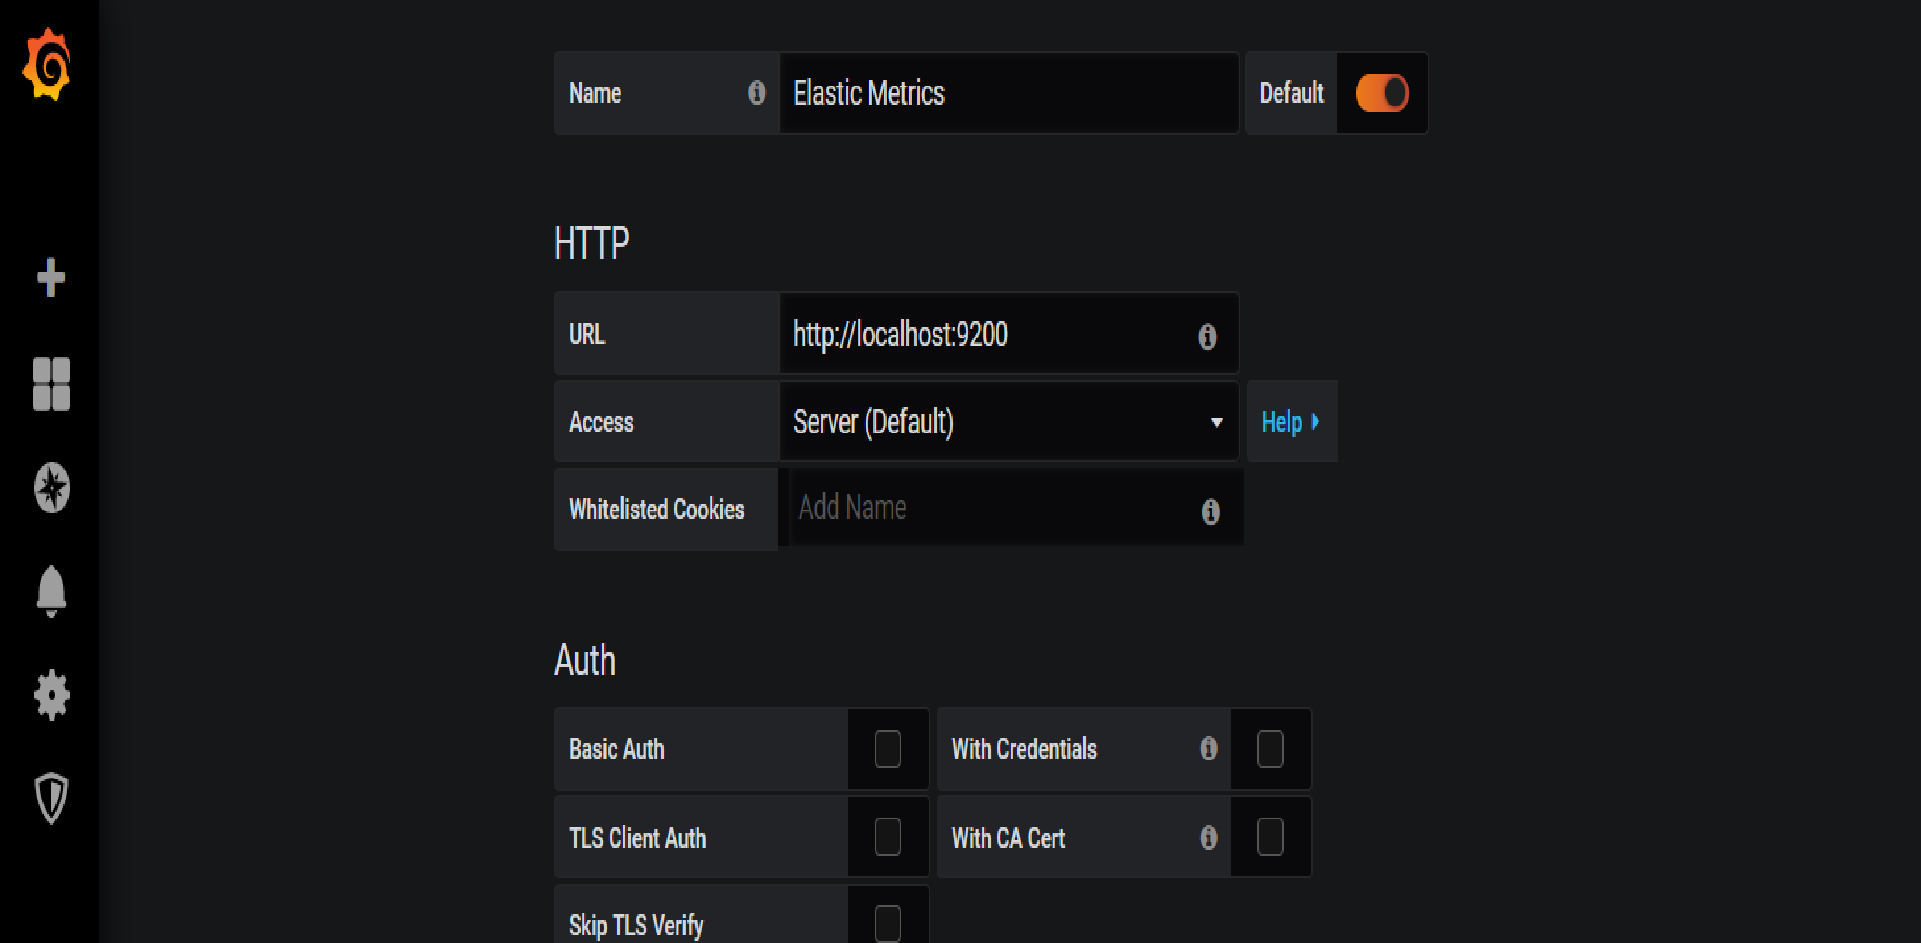
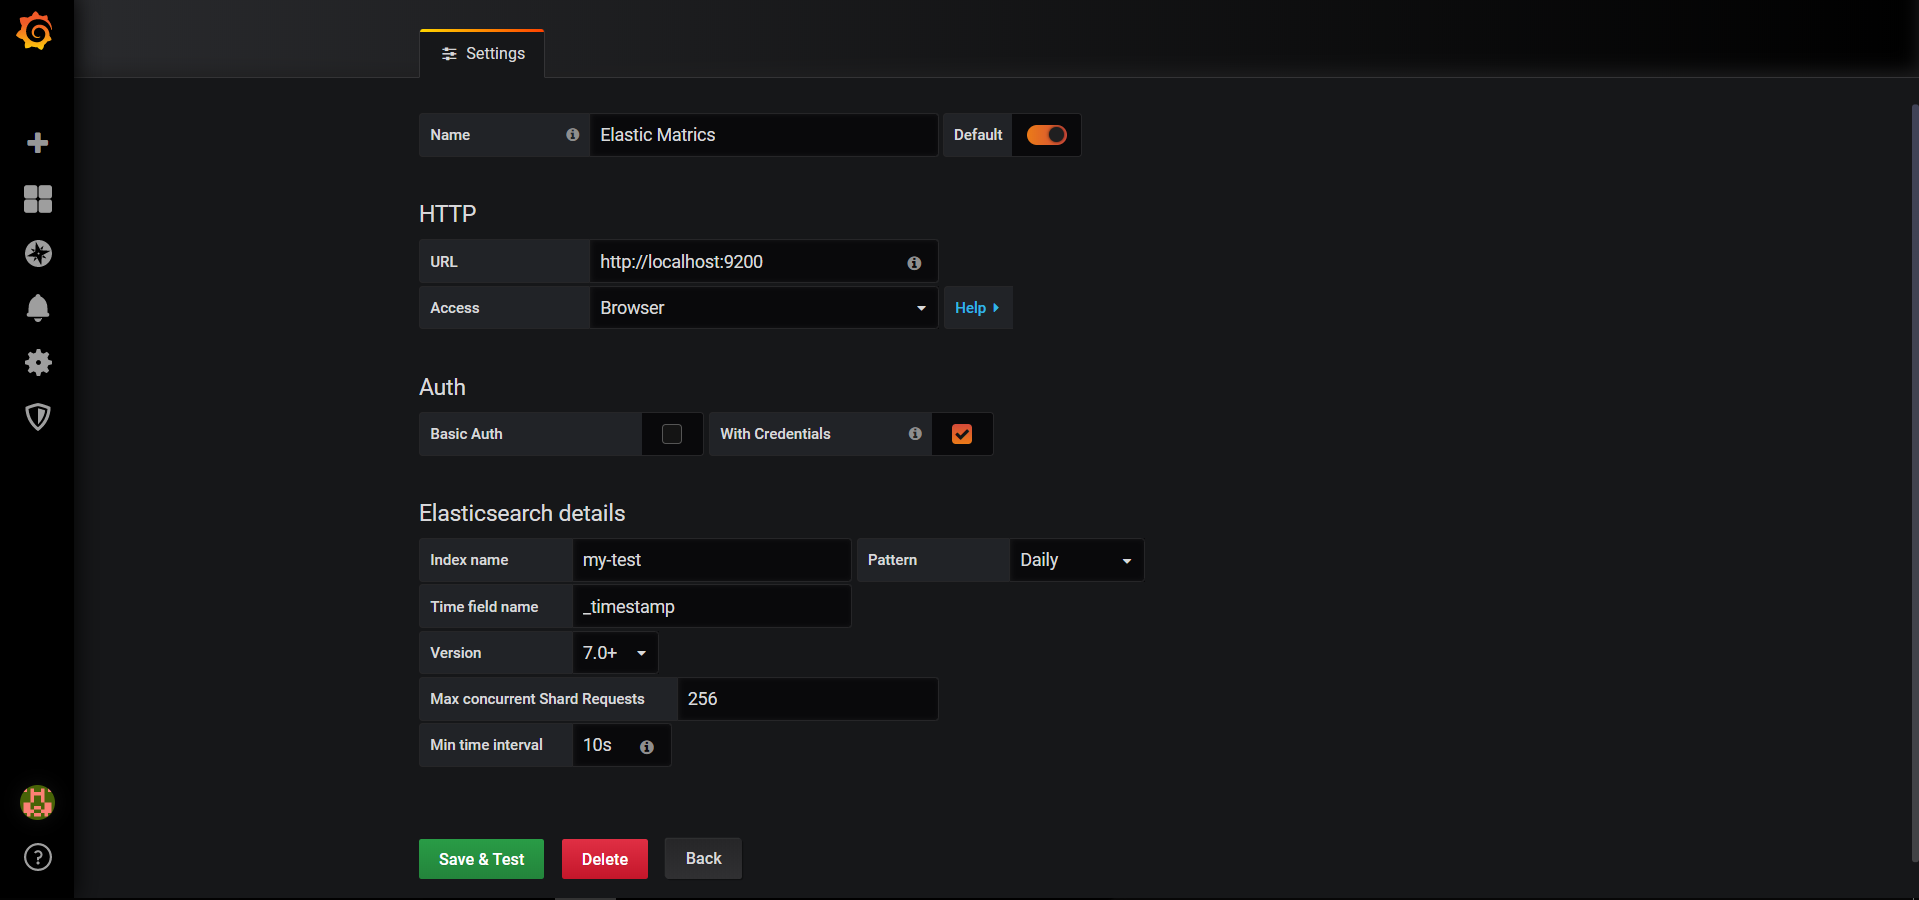
Result Grafana Elasticsearch

diff --git a/README.md b/README.md
@@ -38,3 +38,12 @@ To Use Grafana We Have TO Follow These Steps :
     Default	: Default data source means that it will be pre-selected for new panels.
     Url     : The HTTP protocol, IP, and port of your Elasticsearch server.
     Access	: Server (default) = URL needs to be accessible from the Grafana backend/server, Browser = URL needs to be accessible from the browser.
+
+
+## Result Until Now
+1. There is nothing to Say until now because grafana didn't display any graph after insert the `elastic url and data`
+2. grafana don't accept any index name that elastic provided as `(kafka_1, my-test, ...)`
+3. tomorrow i will change the way about learning and i will start about `HTTP API` in Grafana
+4. finally what the meaning of these two Phrases
+
+![grafana access](grafana_access.png "Grafana Elasticsearch Access")
